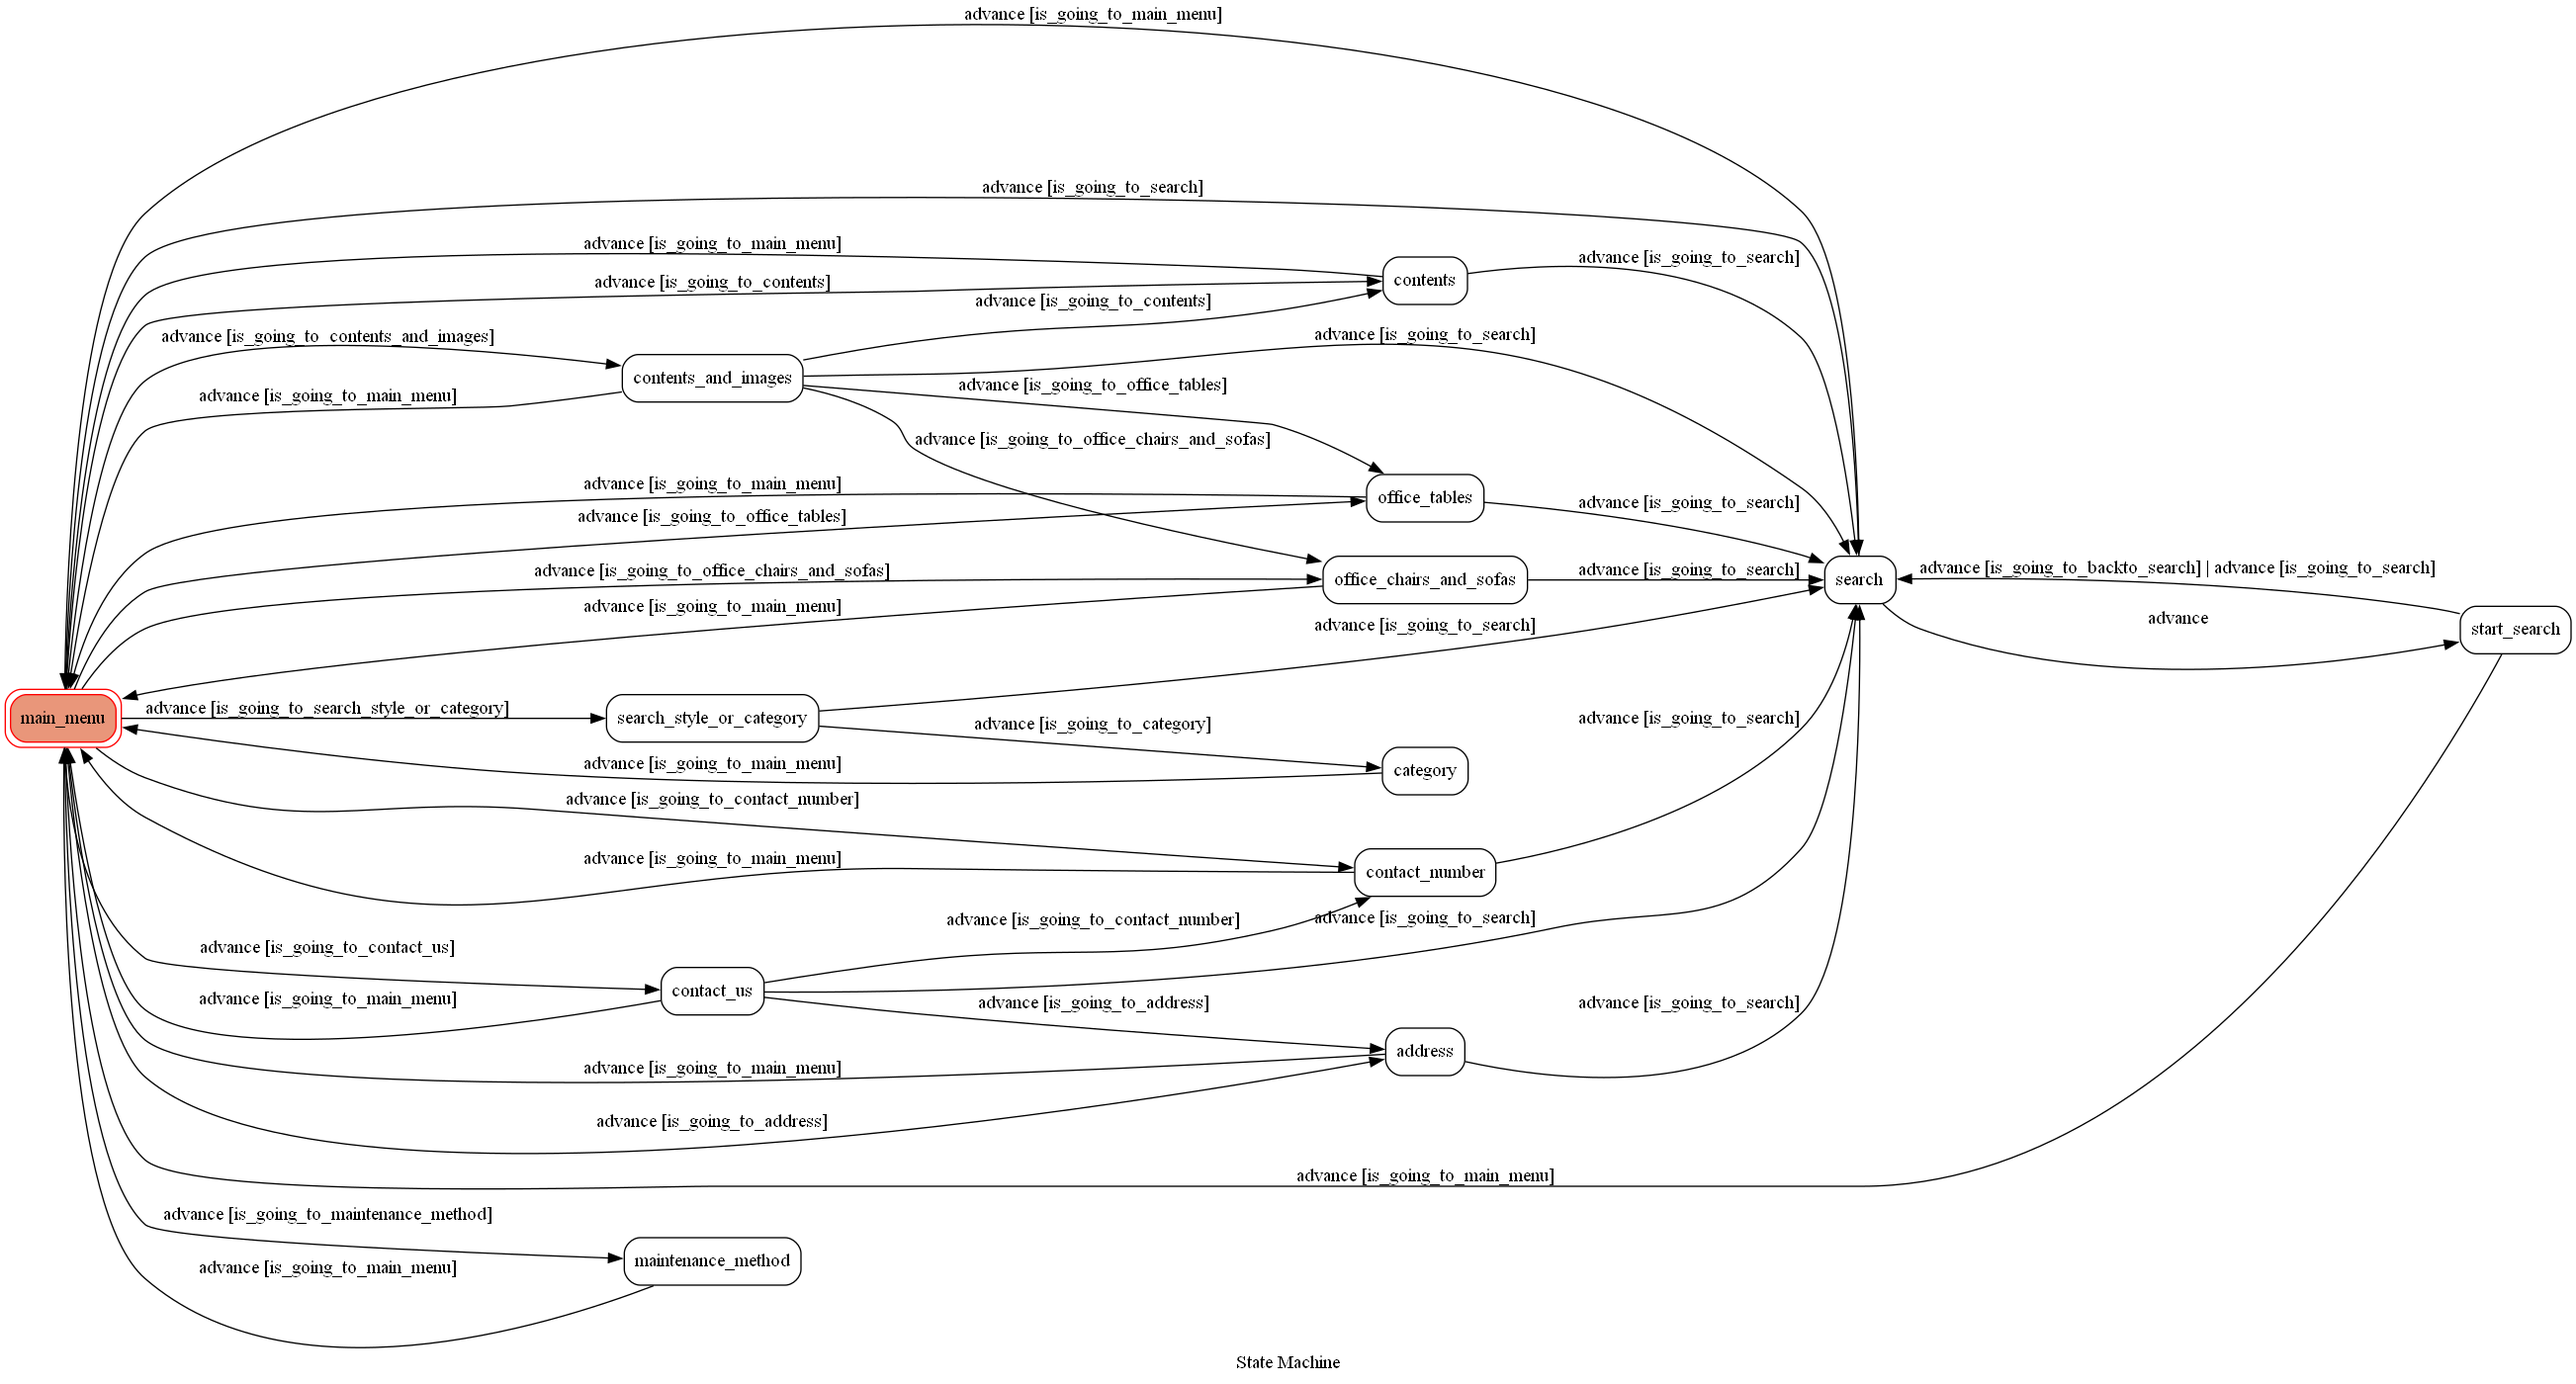
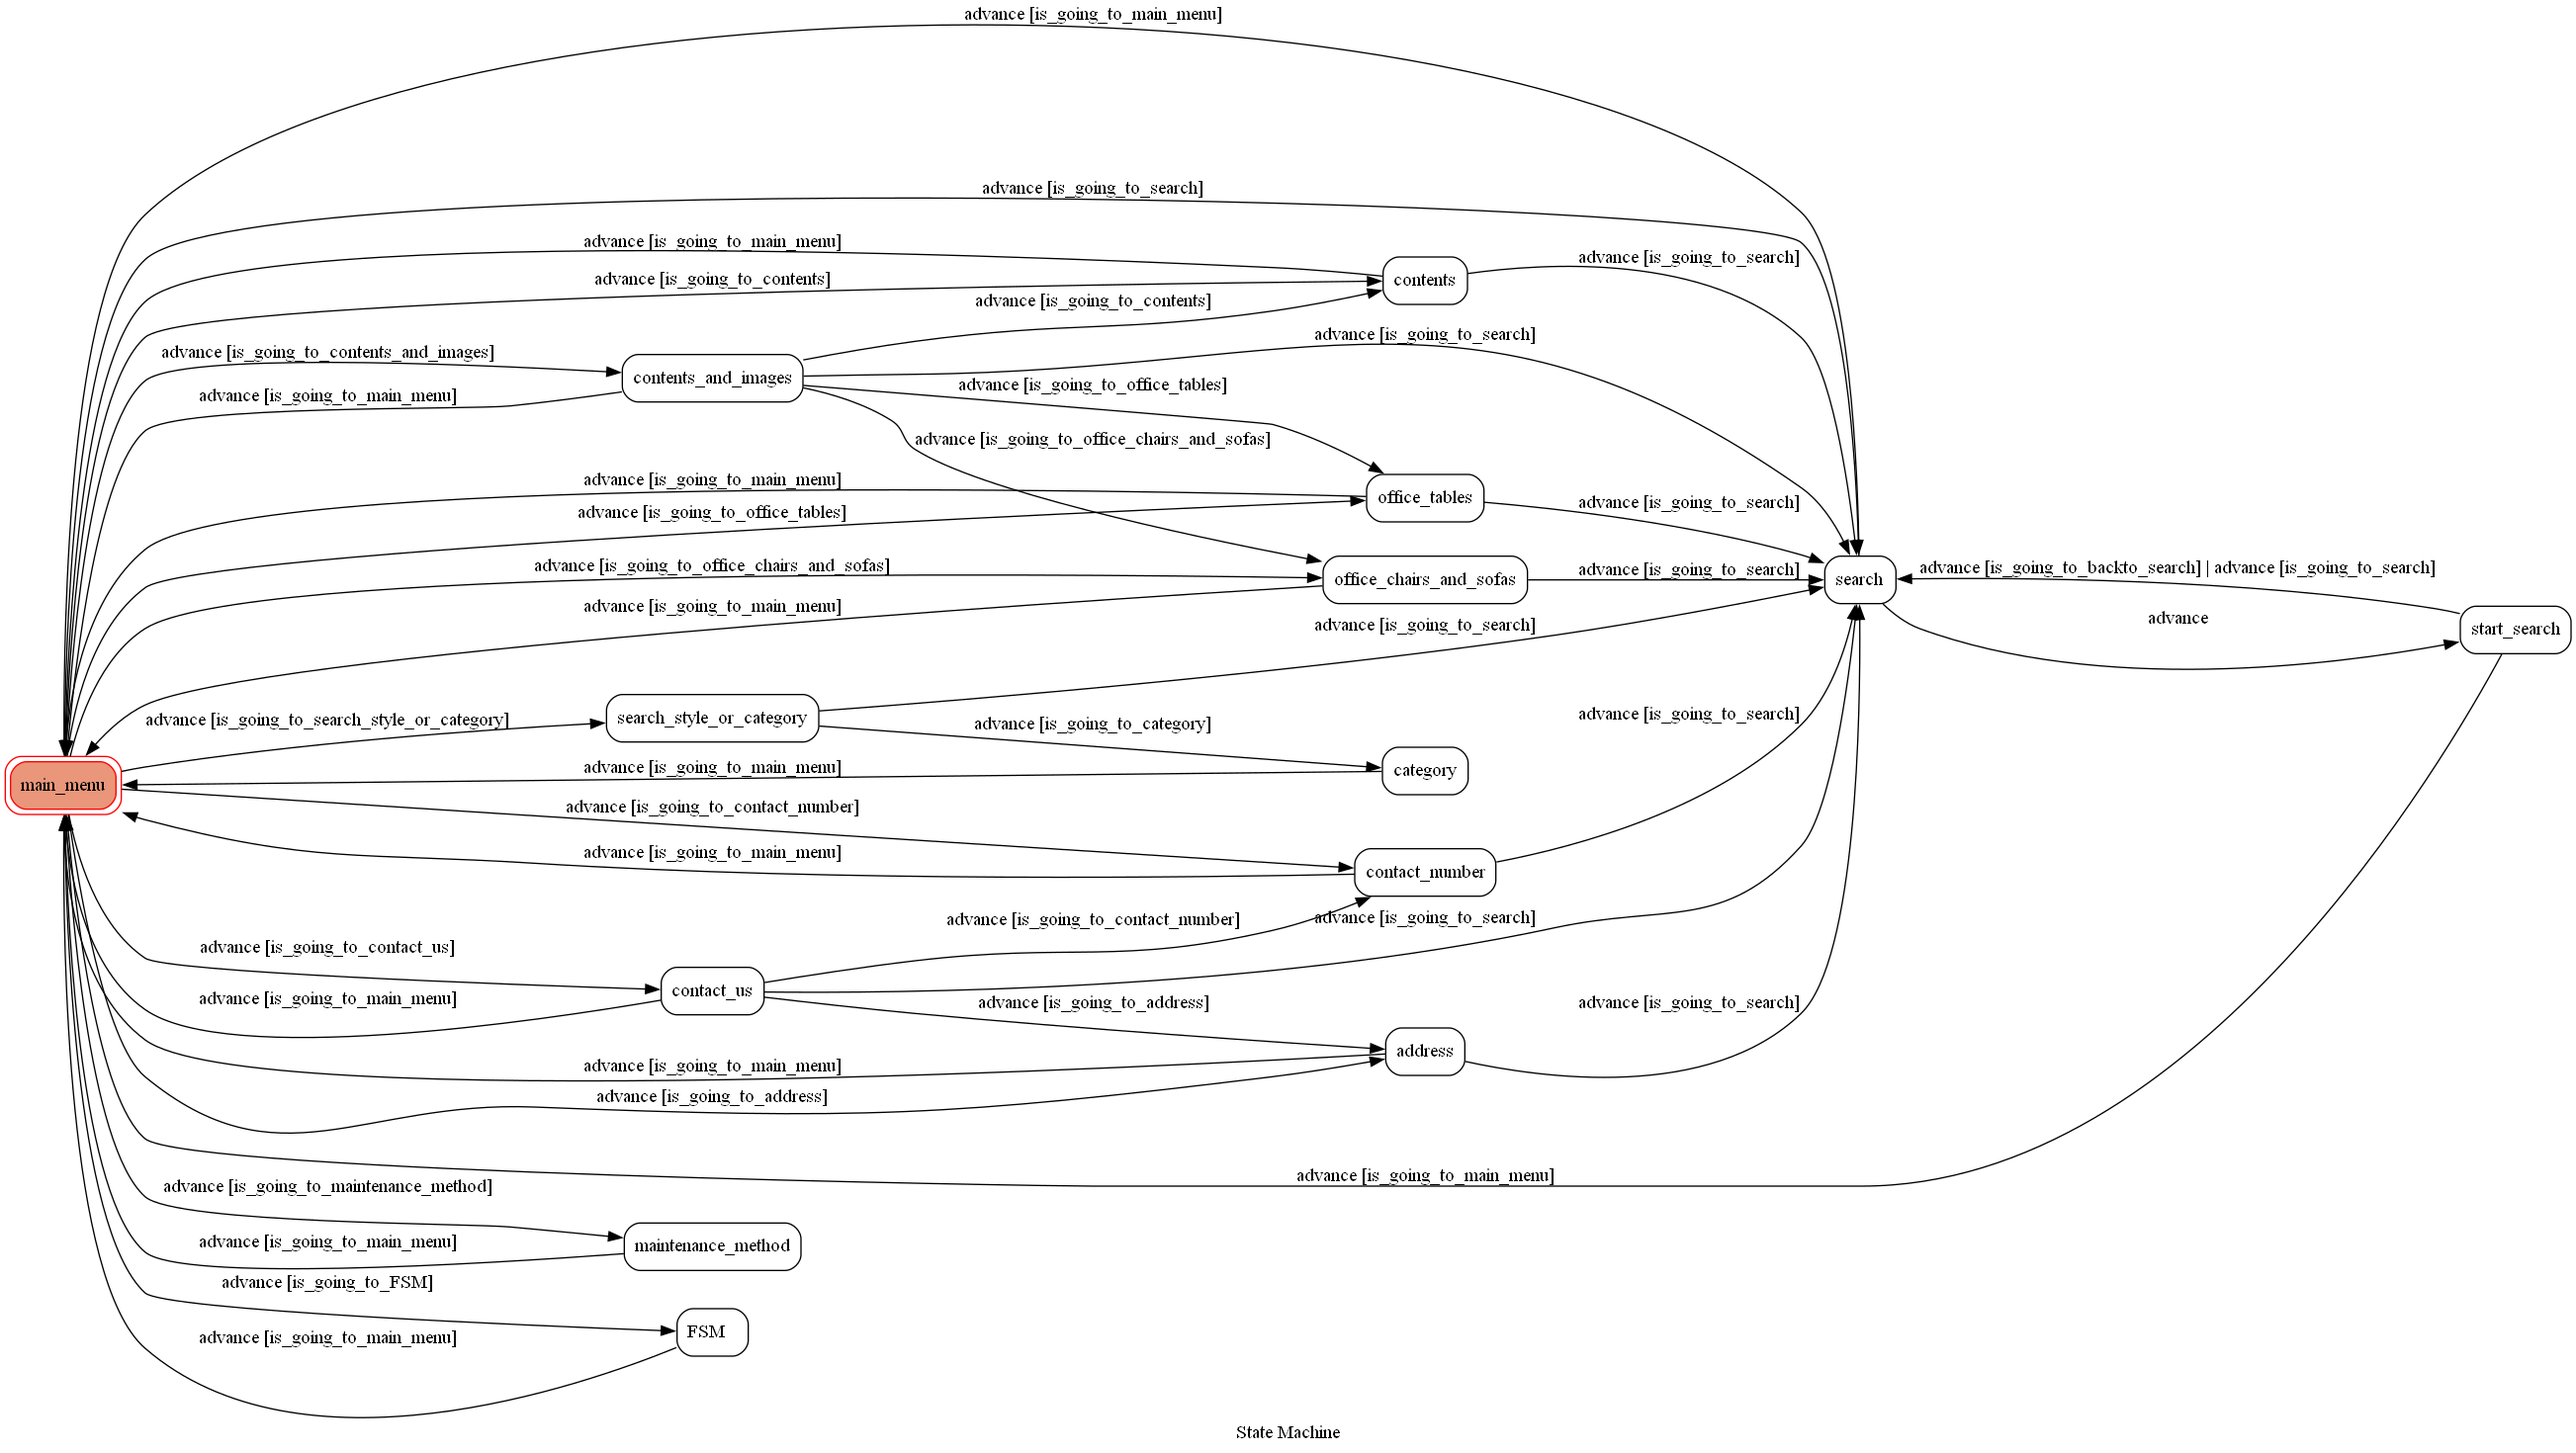
add fsm function

diff --git a/app.py b/app.py
@@ -13,12 +13,13 @@ os.environ["PATH"] += os.pathsep + 'C:/Program Files/Graphviz/bin/'
 machine = TocMachine(
     states=["main_menu", "contents_and_images", "contents", "office_tables", "office_chairs_and_sofas",
             "contact_us", "contact_number", "address", "search_style_or_category", "search", "start_search", 
-            "maintenance_method", "category"],
+            "maintenance_method", "category", "FSM"],
     transitions=[
         {"trigger": "advance", "source": "main_menu", "dest": "search_style_or_category", "conditions": "is_going_to_search_style_or_category",},
         {"trigger": "advance", "source": "main_menu", "dest": "contents_and_images", "conditions": "is_going_to_contents_and_images",},
         {"trigger": "advance", "source": "main_menu", "dest": "maintenance_method", "conditions": "is_going_to_maintenance_method",},
         {"trigger": "advance", "source": "main_menu", "dest": "contact_us", "conditions": "is_going_to_contact_us",},
+        {"trigger": "advance", "source": "main_menu", "dest": "FSM", "conditions": "is_going_to_FSM"},
         {"trigger": "advance", "source": "search_style_or_category", "dest": "search", "conditions": "is_going_to_search",},
         {"trigger": "advance", "source": "search_style_or_category", "dest": "category", "conditions": "is_going_to_category",},
         {"trigger": "advance", "source": "main_menu", "dest": "address", "conditions": "is_going_to_address",},
@@ -32,7 +33,7 @@ machine = TocMachine(
         {"trigger": "advance", "source": "start_search", "dest": "search", "conditions": "is_going_to_backto_search"},
         {
             "trigger": "advance", 
-            "source": ["maintenance_method", "category", "start_search", "search", "contents_and_images", "contents", "office_tables", "office_chairs_and_sofas", "contact_us", "contact_number", "address"], 
+            "source": ["FSM", "maintenance_method", "category", "start_search", "search", "contents_and_images", "contents", "office_tables", "office_chairs_and_sofas", "contact_us", "contact_number", "address"], 
             "dest": "main_menu",
             "conditions": "is_going_to_main_menu"
         },
@@ -47,7 +48,7 @@ machine = TocMachine(
     auto_transitions=False,
     show_conditions=True,
 )
-machine.get_graph().draw("fsm.png", prog="dot", format="png")
+# machine.get_graph().draw("fsm.png", prog="dot", format="png")
 
 app = Flask(__name__, static_url_path="")
 

diff --git a/utils.py b/utils.py
@@ -114,9 +114,7 @@ def show_start_search(reply_token, text):
     for i in range(links_length):
         img_urls.append('https://decotv.com.tw/' + links[i]['src'])
         popup_url_link.append(popup_url + links2[i].get("data-id") + popup_url_mid + links2[i].get("data-pic"))
-
-    # for j in range(links_length):
-    #     print(img_urls[j], popup_url_link[j])         
+      
     imagecarouselcolumns = []
     for i in range(links_length):
         imagecarouselcolumns.append(
@@ -182,6 +180,12 @@ def show_maintenance_method(reply_token):
     line_bot_api.reply_message(reply_token,ImageSendMessage(
         original_content_url='https://i.imgur.com/ITshKAM.png', 
         preview_image_url='https://i.imgur.com/ITshKAM.png'))
+    
+def show_FSM(reply_token):
+    line_bot_api = LineBotApi(channel_access_token)
+    line_bot_api.reply_message(reply_token,ImageSendMessage(
+        original_content_url="https://i.imgur.com/AlUAb6h.png",
+        preview_image_url="https://i.imgur.com/AlUAb6h.png"))
     
 def show_contact_us(reply_token):
     line_bot_api = LineBotApi(channel_access_token)

diff --git a/fsm.py b/fsm.py
@@ -7,6 +7,16 @@ class TocMachine(GraphMachine):
     def __init__(self, **machine_configs):
         self.machine = GraphMachine(model=self, **machine_configs)
         
+    def is_going_to_FSM(self, event):
+        text = event.message.text
+        return text == "show FSM"
+    
+    def on_enter_FSM(self, event):
+        print("I'm entering FSM")
+        reply_token = event.reply_token
+        show_FSM(reply_token)
+        self.advance(event)
+        
     def is_going_to_search(self, event):
         text = event.message.text
         return text.lower() == "search"
@@ -49,9 +59,6 @@ class TocMachine(GraphMachine):
     
     def on_enter_main_menu(self, event):
         print("I'm entering menu")
-        reply_token = event.reply_token
-        # show_enter_menu(reply_token)
-        # show_main_menu(reply_token)
 
     def is_going_to_maintenance_method(self, event):
         text = event.message.text
